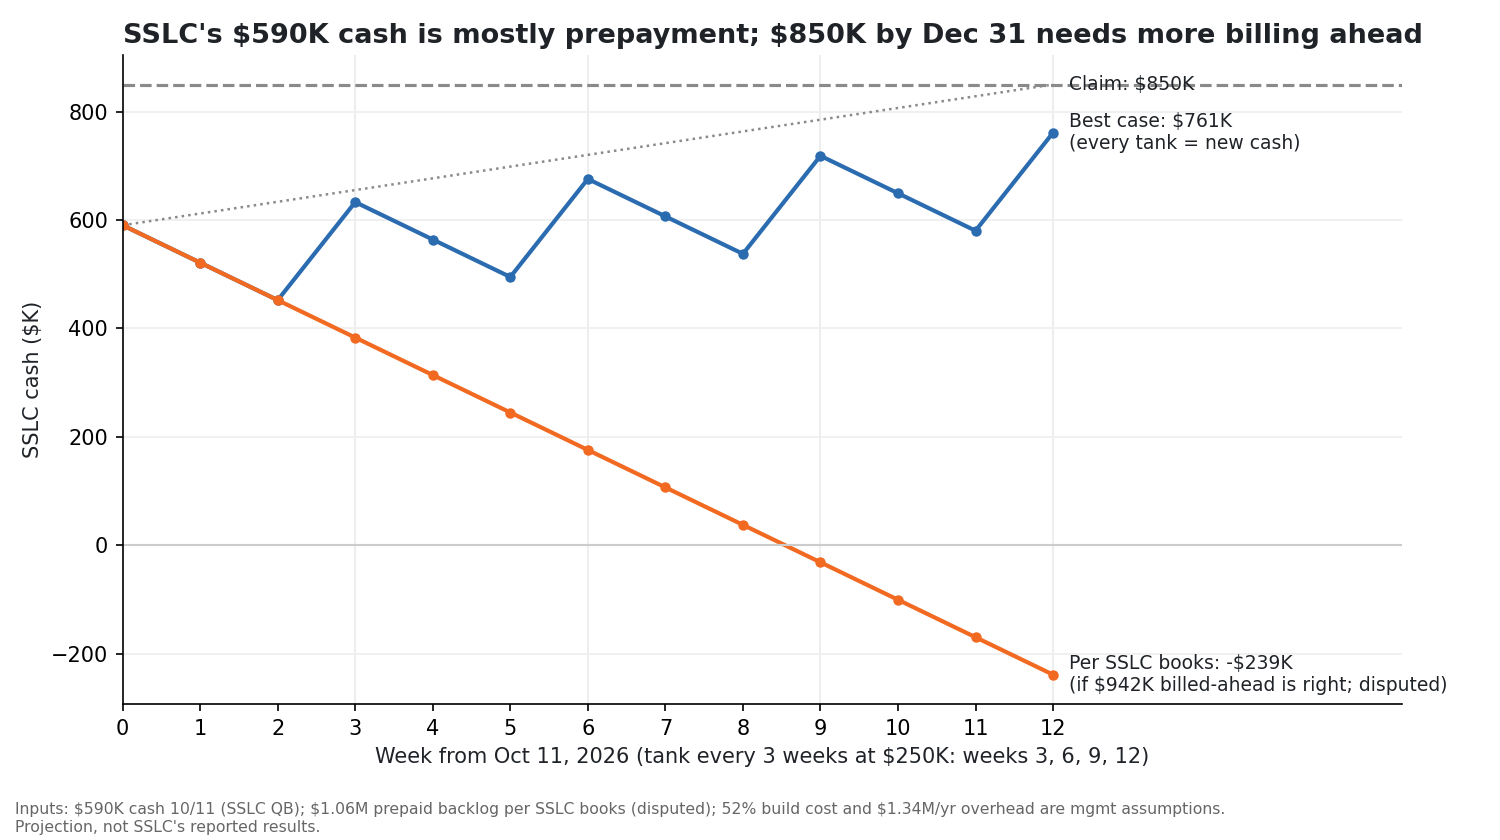
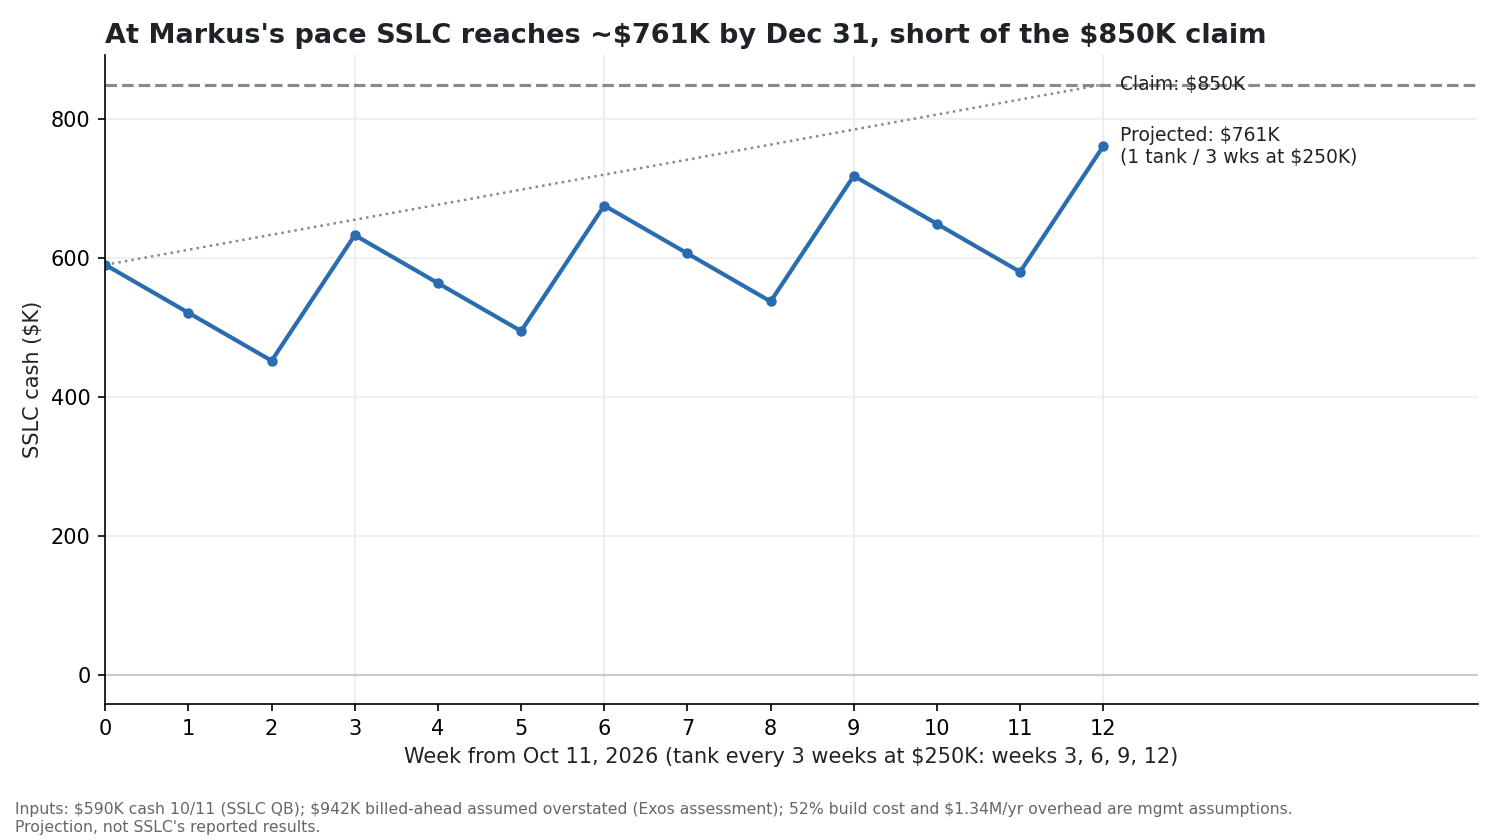
SSLC cash chart: single projection, accrual assumed overstated (John 10/11)

diff --git a/scripts/build_sslc_cash_reality_check_1010.py b/scripts/build_sslc_cash_reality_check_1010.py
@@ -147,25 +147,23 @@ def build_png():
     ax.axhline(target / 1000, color=GREY, lw=1.5, ls="--")
     ax.plot(x, k(claim), color=GREY, lw=1.2, ls=":")
     ax.plot(x, k(best), color=BLUE, lw=2, marker="o", ms=4)
-    ax.plot(x, k(real), color=ORANGE, lw=2, marker="o", ms=4)
     ax.axhline(0, color="#CCCCCC", lw=1)
     lab = dict(fontsize=9, va="center", color=INK)
     ax.text(12.2, target / 1000, f"Claim: ${target/1000:,.0f}K", **lab)
-    ax.text(12.2, best[-1] / 1000, f"Best case: ${best[-1]/1000:,.0f}K\n(every tank = new cash)", **lab)
-    ax.text(12.2, real[-1] / 1000, (f"Per SSLC books: ${real[-1]/1000:,.0f}K" if real[-1]>=0 else f"Per SSLC books: -${-real[-1]/1000:,.0f}K")+"\n(if $942K billed-ahead is right; disputed)", **lab)
+    ax.text(12.2, best[-1] / 1000, f"Projected: ${best[-1]/1000:,.0f}K\n(1 tank / 3 wks at $250K)", **lab)
     for wk in (3, 6, 9, 12):
         ax.axvline(wk, color="#EEEEEE", lw=1, zorder=0)
     ax.set_xlim(0, 16.5)
     ax.set_xticks(range(0, 13))
     ax.set_xlabel("Week from Oct 11, 2026 (tank every 3 weeks at $250K: weeks 3, 6, 9, 12)", color=INK)
     ax.set_ylabel("SSLC cash ($K)", color=INK)
-    ax.set_title("SSLC's \\$590K cash is mostly prepayment; \\$850K by Dec 31 needs more billing ahead", loc="left",
+    ax.set_title("At Markus's pace SSLC reaches ~\\$761K by Dec 31, short of the \\$850K claim", loc="left",
                  fontsize=13, fontweight="bold", color=INK)
     for s in ("top", "right"):
         ax.spines[s].set_visible(False)
     ax.grid(axis="y", color="#EEEEEE")
     fig.text(0.01, 0.01,
-             "Inputs: $590K cash 10/11 (SSLC QB); $1.06M prepaid backlog per SSLC books (disputed); 52% build cost and $1.34M/yr overhead "
+             "Inputs: $590K cash 10/11 (SSLC QB); $942K billed-ahead assumed overstated (Exos assessment); 52% build cost and $1.34M/yr overhead "
              "are mgmt assumptions.\nProjection, not SSLC's reported results.",
              fontsize=7.5, color="#666666")
     fig.tight_layout(rect=(0, 0.06, 1, 1))
